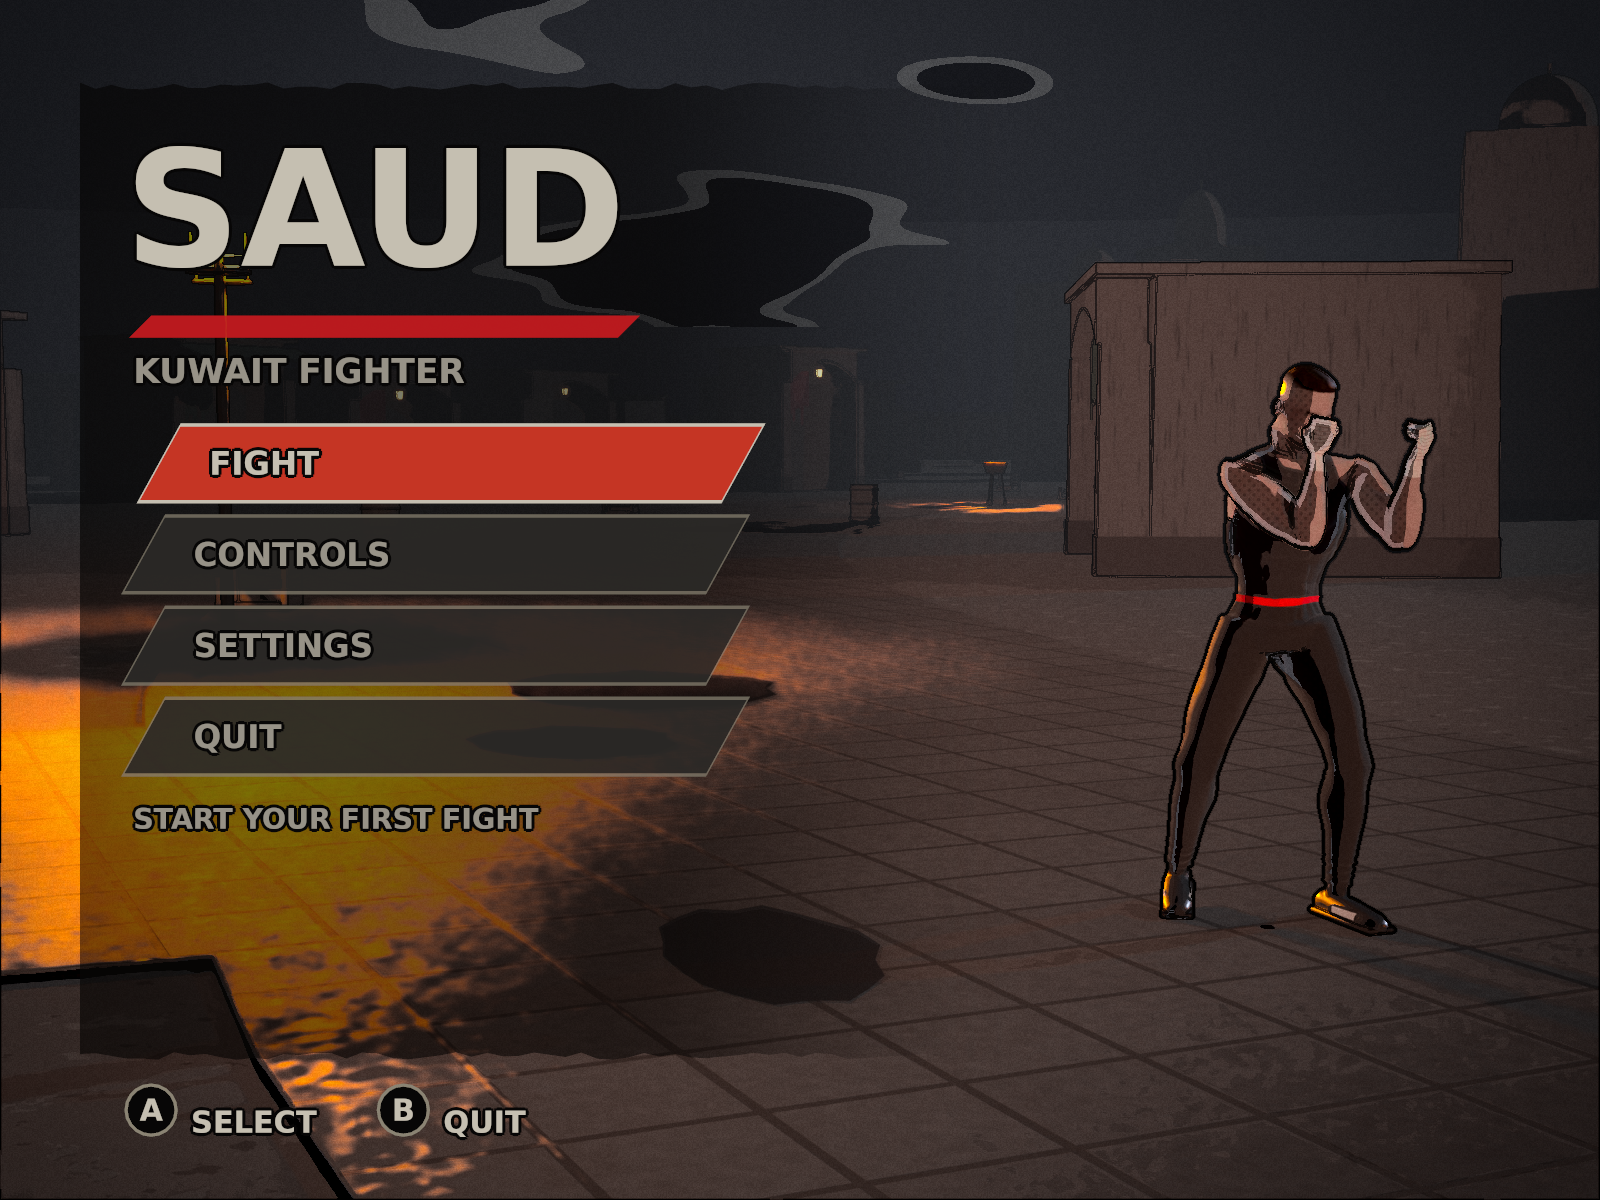
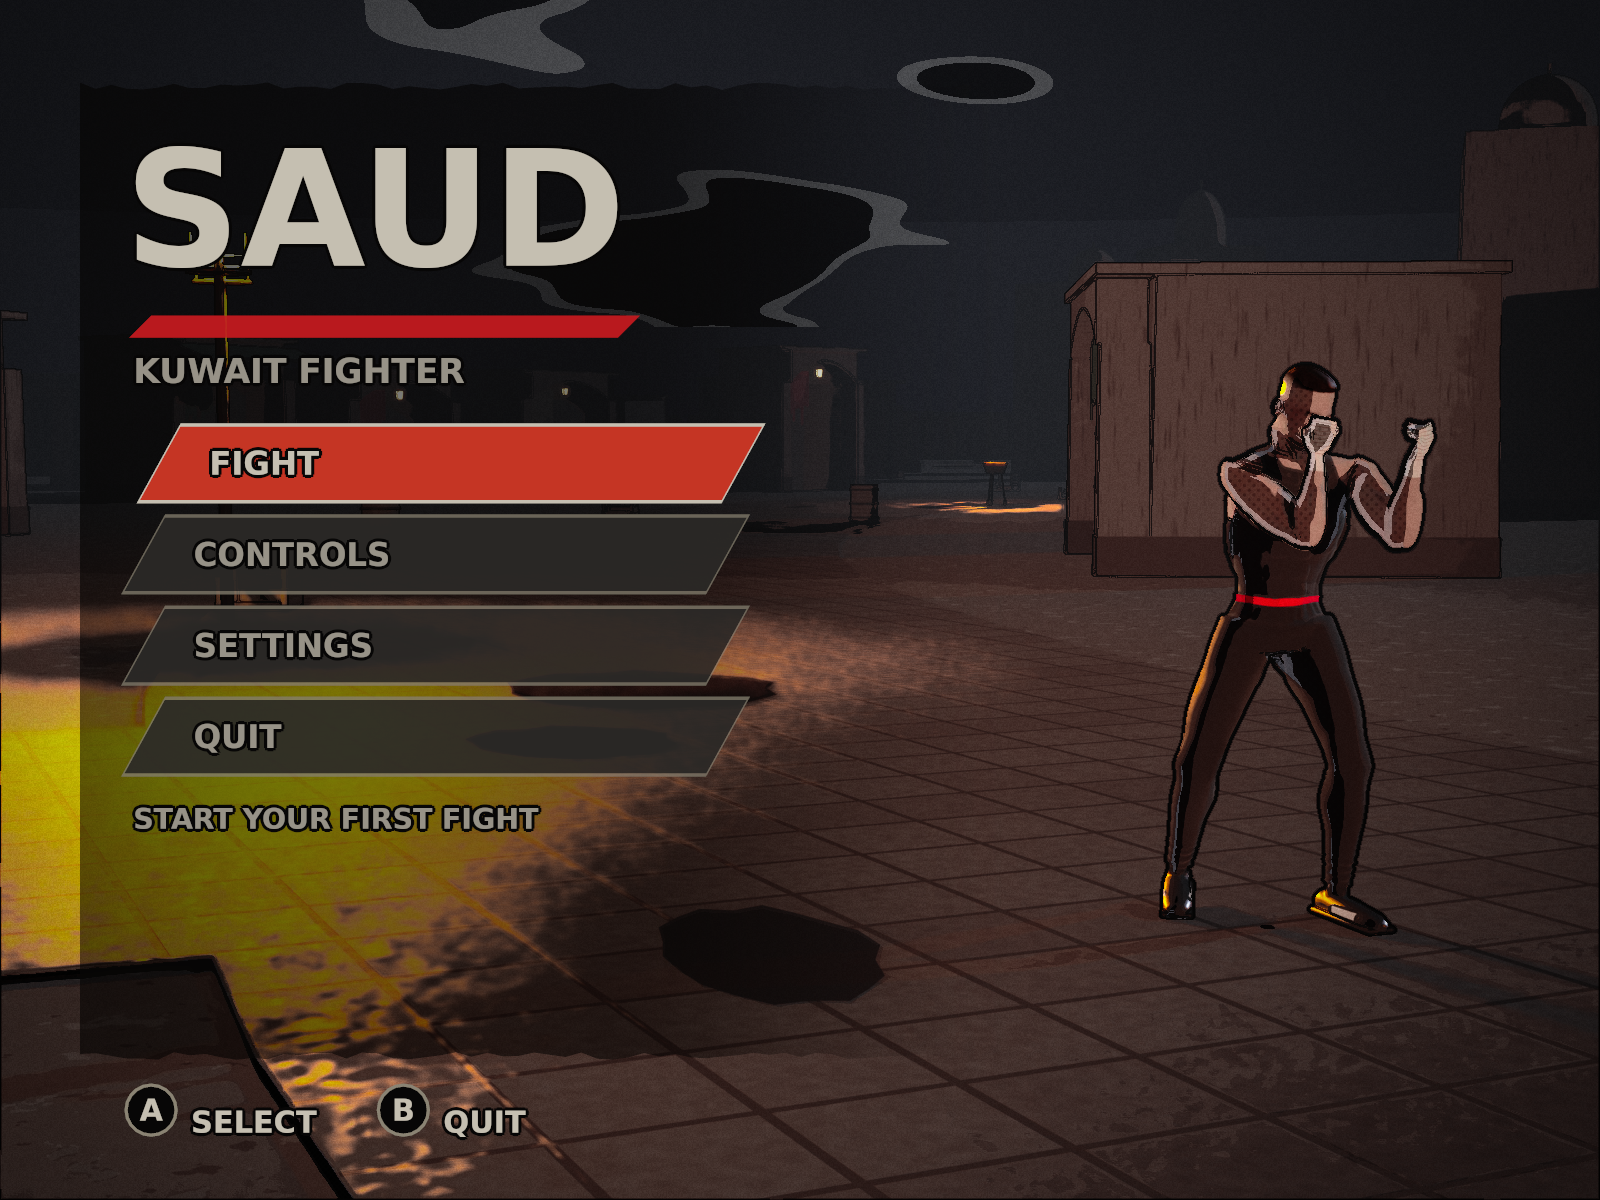
Unreal: colour accuracy finished -- the last previews through the film curve, the results recorded (2026-10-03, Riyadh)
97 of 97 look sabotages caught; the title, IK sheet and six men
re-rendered; the graded check's three standing misses recorded, unchanged.

Claude-Session: https://claude.ai/code/session_01PaUsieAzVn846zAe5Yo99k

Changed region(s): [[0.0, 0.555, 0.125, 0.8017], [0.1875, 0.8942, 0.2188, 0.925]]

diff --git a/projects/saud-fighter-ue5/CLAUDE.md b/projects/saud-fighter-ue5/CLAUDE.md
@@ -3973,7 +3973,15 @@ is caught.
 
 **Checked:** `anime_look.py`'s checks pass, with new ones (the preview is
 the film curve; the engine settings pinned are the preview's; the curve's
-tables) and `--bite` BITES_RESULT; the harness passes. RENDERS_RESULT
+tables) and `--bite` 97 of 97 (1951 s); the harness passes. Re-rendered
+through the film curve: the souq fight and its eight hit frames, the sky,
+the gate (the street came out the same), the HUD four ways, the menus, the
+3D title (both aspects), Saud's IK sheet (its 9 panels' checks pass) and
+the six men. The graded check, at the engine's key, still misses the same
+three it missed after the levels (2026-10-02), by the same amounts:
+fighter/world contrast 1.08 (wanted 1.5), the gate's pools p95/p50 1.27
+(wanted 2.0) and its fire R/B 1.11 (wanted 1.4); the street's pools are
+2.41 and its fire 1.44. Those three are open, and were not this job.
 
 **Not verified:** no engine has run any of it. The film curve is
 reproduced from memory of the engine's shader and checked only against
@@ -4036,7 +4044,7 @@ sabotages caught (the drawn blood bound back to the default; a colour with
 no slot). `anime_look.py`: the table is LOOK's to the byte, the defaults
 are LOOK's for all seven, the materials read the four vectors and the
 header writes them; two new sabotages (`palette_drift`, `constant_ink`),
---bite BITES2_RESULT.
+--bite 97 of 97, the two new ones among them.
 
 **Not verified:** nothing compiled against UE 5.4 or run: the
 `CollectionVectorParameter` editor properties, `SetVectorParameterValue`
